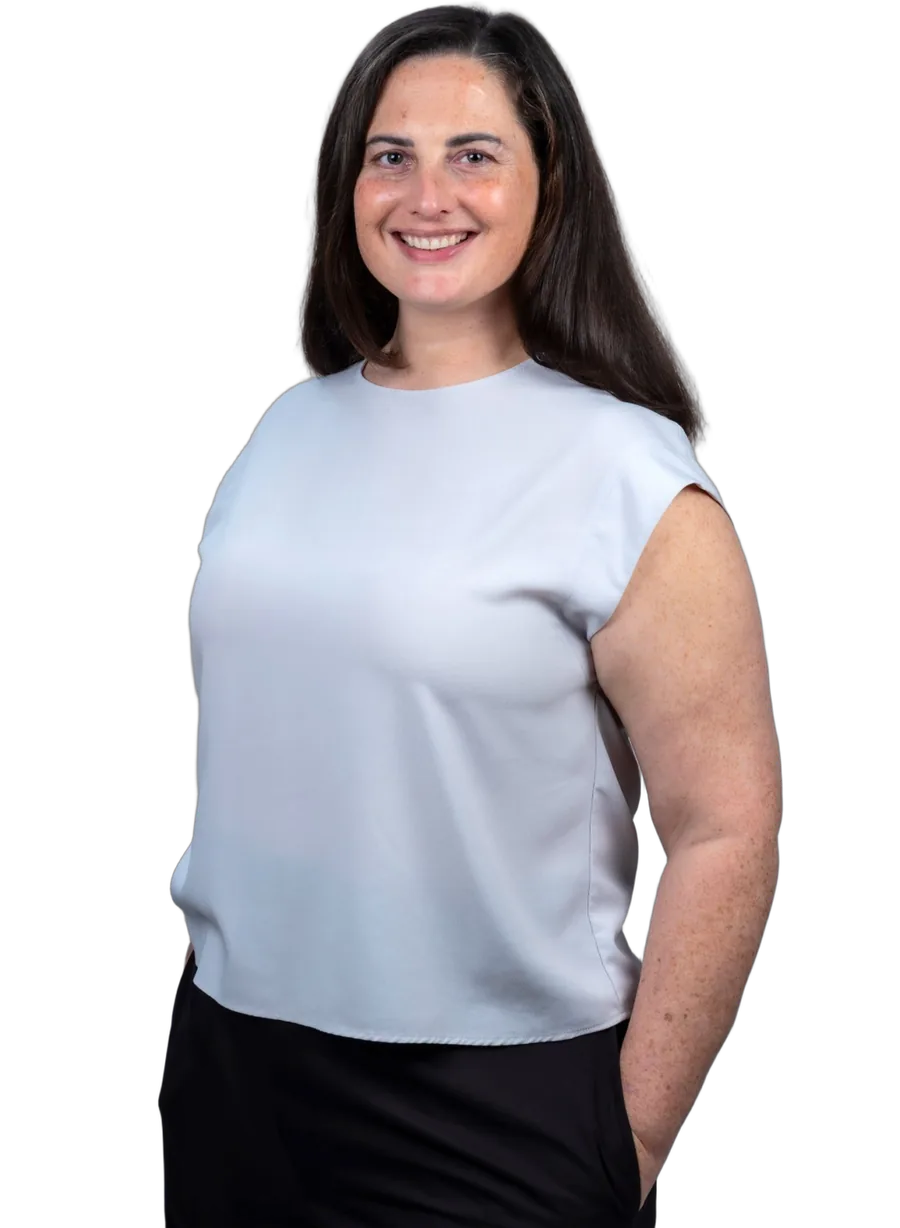
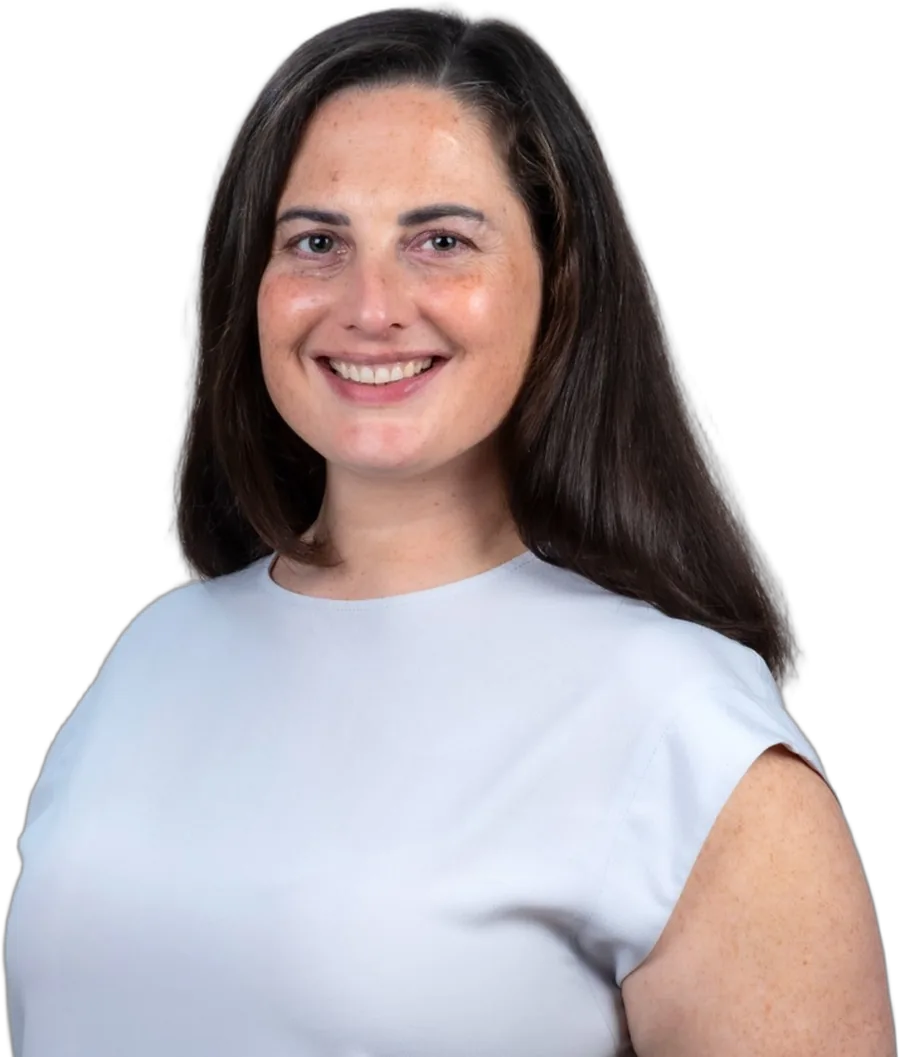
Switch dark sections to deep bottle green and crop About portrait
Claude-Session: https://claude.ai/code/session_01W2eg56KgkHtMgtU5HhNPaQ

diff --git a/site.css b/site.css
@@ -12,7 +12,8 @@
   --sage-lt:#b4c4a6;     /* sage tint for text and buttons on dark backgrounds */
   --sage-dk:#5f7052;     /* sage shade for small text on white */
   --gold:#a8a44c;        /* highlight: link underlines and rules only */
-  --night:#263029;       /* dark sections */
+  --night:#123528;       /* dark sections: deep bottle green */
+  --night-2:#193f30;     /* lighter end of the hero gradient */
   --moss:#2c3830;        /* main text colour */
   --sea:#b8cdd4;         /* secondary text on dark */
   --coolwhite:#f1f4f2;
@@ -61,7 +62,7 @@ a:hover .arrow{transform:translateX(4px)}
 a:hover .arrow.back{transform:translateX(-4px)}
 
 /* ---------- Page hero (inner pages) ---------- */
-.page-hero{padding:56px 0 88px;background:linear-gradient(180deg,var(--night) 0%,var(--moss) 100%);color:#eef2ef}
+.page-hero{padding:56px 0 88px;background:linear-gradient(180deg,var(--night) 0%,var(--night-2) 100%);color:#eef2ef}
 .crumb{font-size:15px;font-weight:600;color:var(--sage-lt);margin-bottom:28px}
 .crumb a{border-bottom:1px solid rgba(180,196,166,.5)}
 .crumb a:hover{color:#fff}

diff --git a/about.html b/about.html
@@ -95,7 +95,7 @@
         <p class="lede">The thread running through my work is a question I keep coming back to: what is AI doing to how brands and audiences communicate?</p>
         <p class="lede">My background is in strategic communication. I did my Master's at the University of Johannesburg, studying how online discourse shapes what people come to think of brands and institutions. That training is the lens I bring to most of what I do now. When AI started changing how content gets made, distributed, and received, it became the obvious next question to sit with — and the one I've been working on since.</p>
       </div>
-      <div class="photo"><img src="images/elzanne-about.webp" alt="Elzanne Amao" width="900" height="1228"></div>
+      <div class="photo"><img src="images/elzanne-about.webp" alt="Elzanne Amao" width="900" height="1057"></div>
     </div>
   </section>
 

diff --git a/index.html b/index.html
@@ -136,7 +136,7 @@
 <link rel="stylesheet" href="site.css">
 <style>
   /* Homepage-only styles. Shared styles are in site.css */
-  .hero-band{overflow:hidden;padding:96px 0 0;background:linear-gradient(180deg,var(--night) 0%,var(--moss) 100%)}
+  .hero-band{overflow:hidden;padding:96px 0 0;background:linear-gradient(180deg,var(--night) 0%,var(--night-2) 100%)}
   .hero{display:grid;grid-template-columns:5fr 7fr;gap:72px;align-items:end}
   .photo{position:relative;padding-top:48px}
   .photo::before{content:"";position:absolute;left:50%;top:44%;width:150%;aspect-ratio:1;transform:translate(-50%,-50%);border-radius:50%;background:radial-gradient(circle,rgba(203,215,193,.75) 0%,rgba(180,196,166,.45) 30%,rgba(122,140,110,.12) 58%,rgba(38,48,41,0) 72%)}
